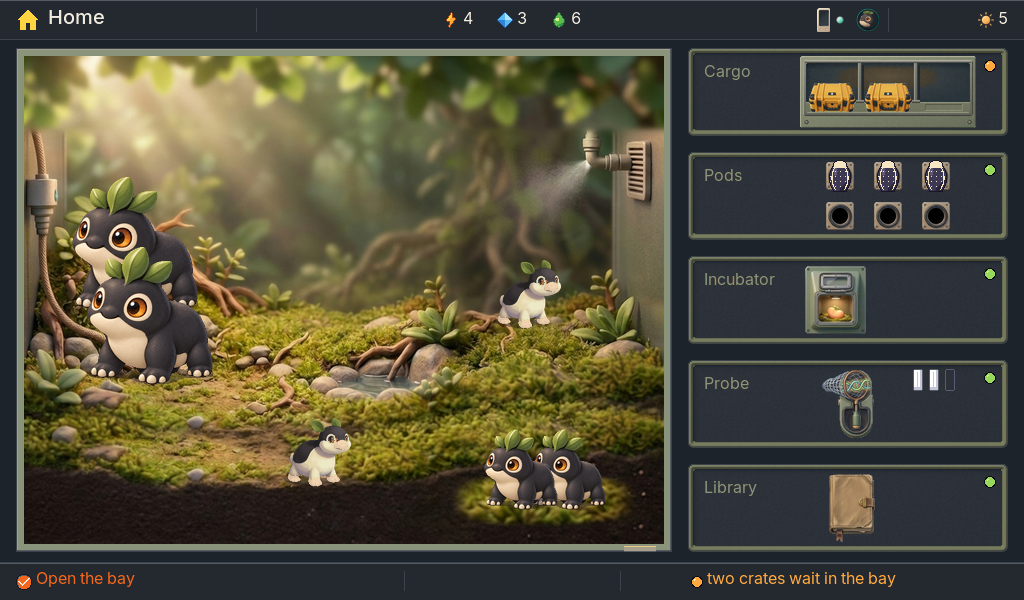
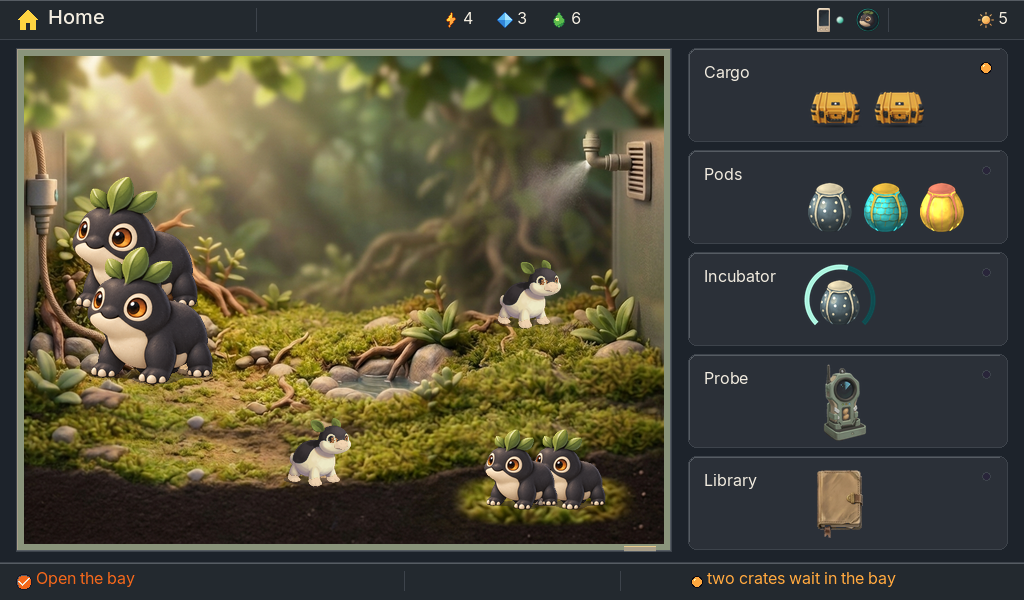
Plates 01 and 07a, art direction: Home's target drawn as a true diagram (slate panes, lamps amber or off, the species' pods, the bud's own pod in its ring, no plate pictures)

Changed region(s): [[0.6562, 0.06, 1.0, 0.93]]

diff --git a/design/style-guide/plates/make-plates.py b/design/style-guide/plates/make-plates.py
@@ -2,7 +2,7 @@
 """The style guide's plates: one rule per plate, a do beside a don't, at 1x.
 
 Run from the repository root:
-  python3 design/style-guide/plates/make-plates.py SRC FONTS
+  python3 design/style-guide/plates/make-plates.py SRC FONTS   (needs Pillow and numpy)
 
 SRC holds the inputs: committed goldens of the device sheet (tools/device-sheet.json on
 work-queue, plus pods-kin.png, batch B-4's pods/pods-overview-kin-focused.png), signed slices from masters-pods, station-gate masters and the owner's
@@ -136,16 +136,66 @@ def glow_pool(w, h, cx, cy, rx, ry, col, a):
     return im
 
 
+def species_pod(code, cls='collection'):
+    """A species' pod from the pod renderer's signed layers (ui/podlayers.mjs composePod, ported):
+    colour = (A·body·(1−pattern) + B·min(1, accent+pattern)) × 2·shade × 2·relief, alpha the shade's."""
+    import numpy as np
+    pod = json.load(open('prototypes/workbench/frames/species-%s.json' % code))['pod']
+    pat = {'smooth dots': 'dots', 'soft ribs': 'ribs', 'segments': 'segments', 'plates': 'plates'}
+    name = next((v for k, v in pat.items() if k in (pod.get('shellPattern') or '')), None)
+    base = 'prototypes/ui/assets/masters/pods/pod-%s-' % cls
+    ld = lambda n: np.asarray(Image.open(base + n + '.png').convert('RGBA'), dtype=float) / 255
+    sh, bd, ac = ld('shade'), ld('mask-body')[..., 3], ld('mask-accent')[..., 3]
+    pt = ld('pattern-' + name)[..., 3] if name and os.path.exists(base + 'pattern-%s.png' % name) else 0 * bd
+    rl = ld('pattern-%s-relief' % name)[..., 0] * 2 if name and os.path.exists(base + 'pattern-%s-relief.png' % name) else 1
+    A, B = [np.array([int(c['hex'][i:i + 2], 16) / 255 for i in (1, 3, 5)]) for c in pod['colourPair']]
+    mix = np.minimum(1, ac + pt)
+    rgb = np.minimum(1, (A * (bd * (1 - pt))[..., None] + B * mix[..., None]) * (sh[..., :1] * 2) * (rl[..., None] if not isinstance(rl, int) else 1))
+    out = np.dstack([rgb, sh[..., 3:4]])
+    return Image.fromarray((out * 255).round().astype('uint8'), 'RGBA')
+
+
 def home_slate():
-    """Home with its module panes re-toned from their painted brown (#352d27 and its noise) to panel."""
+    """Home as the target, a diagram: the accepted living window and frame, with the module column
+    redrawn as one-pane modules (slate pane, hairline and bevel), lamps amber or off, each module
+    holding its own object and no plate picture; the Incubator holds the bud's own pod in its ring."""
     im = src('home-docked.png')
-    px = im.load()
-    M, P = (53, 45, 39), C['panel']
-    for y in range(40, 562):
-        for x in range(676, 1024):
-            r, g, b, a = px[x, y]
-            if abs(r - M[0]) <= 14 and abs(g - M[1]) <= 14 and abs(b - M[2]) <= 14 and r >= b + 6:
-                px[x, y] = (P[0] + r - M[0], P[1] + g - M[1], P[2] + b - M[2], a)
+    lib = im.crop((826, 472, 878, 542))  # the Library's book, painted, keyed off its module's brown
+    lp = lib.load()
+    for yy in range(lib.height):
+        for xx in range(lib.width):
+            r, g, b, a = lp[xx, yy]
+            if abs(r - 54) <= 12 and abs(g - 46) <= 12 and abs(b - 40) <= 12:
+                lp[xx, yy] = (r, g, b, 0)
+    d = ImageDraw.Draw(im)
+    d.rectangle((676, 40, 1023, 561), fill=C['ground'])
+    names = ('Cargo', 'Pods', 'Incubator', 'Probe', 'Library')
+    for k, name in enumerate(names):
+        x, y, w, h = 688, 48 + k * 102, 320, 94
+        pane(d, x, y, w, h)
+        text(d, (x + 16, y + 14), name, F16, 'bone')
+        lit = name == 'Cargo'
+        lx, ly = x + w - 28, y + 14
+        if lit:
+            im.alpha_composite(src('home-lamp-amber-12x12.png'), (lx, ly))
+        else:
+            d.ellipse((lx + 2, ly + 2, lx + 10, ly + 10), fill=C['night'], outline=C['hairline'])
+        ox = x + 120
+        if name == 'Cargo':
+            crate = src('cargo-crate-64x64.png').resize((56, 56), Image.LANCZOS)
+            im.alpha_composite(crate, (ox, y + 24))
+            im.alpha_composite(crate, (ox + 64, y + 24))
+        elif name == 'Pods':
+            for n, code in enumerate(('S01', 'S03', 'S05')):
+                im.alpha_composite(species_pod(code).resize((44, 56), Image.LANCZOS), (ox + n * 56, y + 26))
+        elif name == 'Incubator':
+            im.alpha_composite(ring(76, 0.55, thick=5), (ox - 6, y + 10))
+            im.alpha_composite(species_pod('S01').resize((40, 51), Image.LANCZOS), (ox + 12, y + 22))
+        elif name == 'Probe':
+            probe = src('bench-probe-upright-t1-288x432.png').resize((52, 78), Image.LANCZOS)
+            im.alpha_composite(probe, (ox + 8, y + 10))
+        else:
+            im.alpha_composite(lib, (ox + 6, y + 12))
     return im
 
 
@@ -239,7 +289,7 @@ def wood_badge():
 # ---------------------------------------------------------------- 1 the look
 plate('01-look', 'One device: the living window leads, the instrument serves',
       home_slate(), src('incubator-ready.png'),
-      'Home, accepted by the owner, as a diagram: its module panes re-toned from their painted brown to panel #2b3038. Warm daylight in the vivarium, the device around it calm, matte and slate. The eye goes to the life first.',
+      'Home as the target, a diagram: the accepted living window, with the module column redrawn as slate panes (hairline and bevel), lamps amber or off, each module holding its own object (crates, the species\' pods, the bud\'s own pod in its ring, the Probe, the book), no plate pictures. The eye goes to the life first.',
       'The rejected Incubator (06:38): brown on brown, a cream ring, an egg on a moss cradle, a green plastic plaque, a pixel glyph and jargon in a floating box.')
 
 home_slate().convert('RGB').save(os.path.join(OUT, '01-look-do.png'), optimize=True)  # plate 01's do alone, for the art direction
@@ -526,7 +576,7 @@ def overlay(img):
 do = overlay(home_slate())
 dont = overlay(src('create-shape.png'))
 plate('07a-layout', 'The frame and the grid: top bar 40, stage 522, bottom line 38; 16 px margins', do, dont,
-      'Home on the grid (diagram: its module panes re-toned to panel): every region inside the 16 px margins and y 48–552, aligned in columns, 8 px between related things, 16 between groups.',
+      'Home on the grid (the target diagram of plate 01): every region inside the 16 px margins and y 48–552, aligned in columns, 8 px between related things, 16 between groups.',
       'Create (batch B-3): things float on an empty field at uneven gaps, no surface, no grid. Owner: "all elements in create screen are floating".')
 
 comp = Image.open('art/concept-homepage/companion-resident-home-450x600.png').convert('RGBA')

diff --git a/design/art-direction.md b/design/art-direction.md
@@ -28,7 +28,7 @@ A small, well-made field kit for keeping living things. You hold it, and it is w
 
 When a screen goes wrong, it is almost always one layer doing another's job: the instrument taking colour or decoration from the life, or the signal lighting up for show. Checking a screen layer by layer finds those faults before they compound.
 
-<table><tr><td valign="top"><img src="style-guide/plates/01-look-do.png" width="512" alt="Home, the three layers"><br><em>Home as the target, the three layers in one screen: the living vivarium, the quiet slate instrument, a few small signals. Diagram: the accepted Home with its module panes re-toned to the slate pane (style guide plate 01).</em></td></td>
+<table><tr><td valign="top"><img src="style-guide/plates/01-look-do.png" width="512" alt="Home, the three layers"><br><em>Home as the target, the three layers in one screen: the living vivarium, the quiet slate instrument, a few small signals. Diagram: the accepted living window, with the module column redrawn as slate panes, lamps amber or off, each module holding its own object and no plate pictures (style guide plate 01).</em></td></td>
 <td valign="top"><img src="../art/concept-homepage/companion-resident-home-450x600.png" width="225" alt="Resident at home concept"><br><em>companion-resident-home: the warmth the life layer carries. Approved concept, generated.</em></td></tr></table>
 
 ### One machine: the instrument layer's rule
@@ -90,7 +90,7 @@ Bright life on a calm ground.
 
 *Written by the game designer. The numbers that put these principles into practice (words per element, mark sizes, counts) are in the [style guide](style-guide/README.md); this section is the reason behind them.*
 
-<img src="style-guide/plates/01-look-do.png" width="640" alt="Home, the device as it should be"><br><em>Home as the target: one living subject, a column of quiet slate panes, one line of words. Diagram: the accepted Home with its module panes re-toned to the slate pane (style guide plate 01).</em>
+<img src="style-guide/plates/01-look-do.png" width="640" alt="Home, the device as it should be"><br><em>Home as the target: one living subject, a column of quiet slate panes, one line of words. Diagram: the accepted living window, with the module column redrawn as slate panes, lamps amber or off, each module holding its own object and no plate pictures (style guide plate 01).</em>
 
 - **One subject per screen.** Every screen is about one thing the player cares about: a mibi, a pod, a crate, a choice. That thing is the largest, best-lit and most detailed thing there. Everything else is smaller, quieter and in its service.
 - **Show what the player acts on or watches change, and nothing else.** An object earns its place by doing something the player can see, or by changing over time. Equipment that serves nothing, decoration that explains nothing, and a second picture of something already shown all go.
